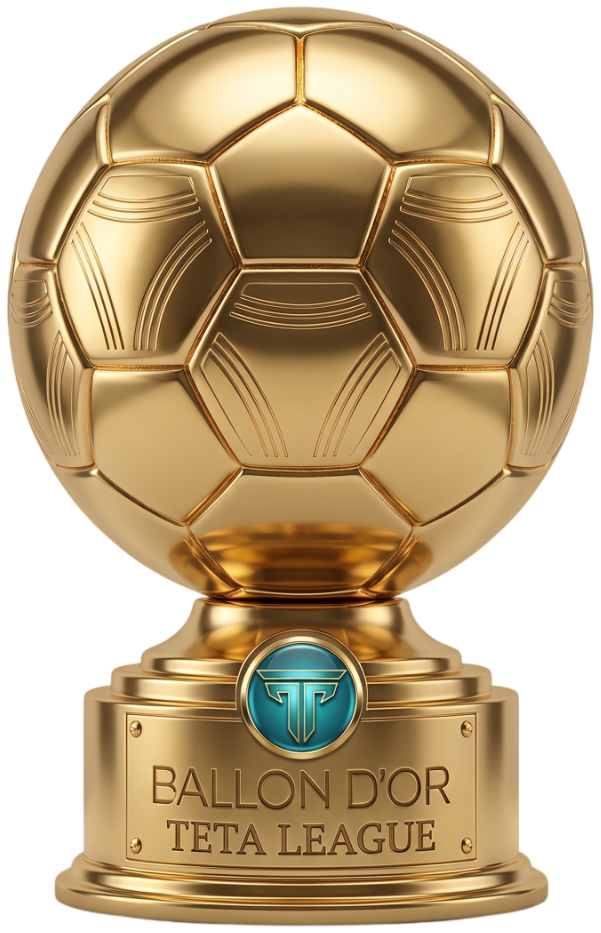
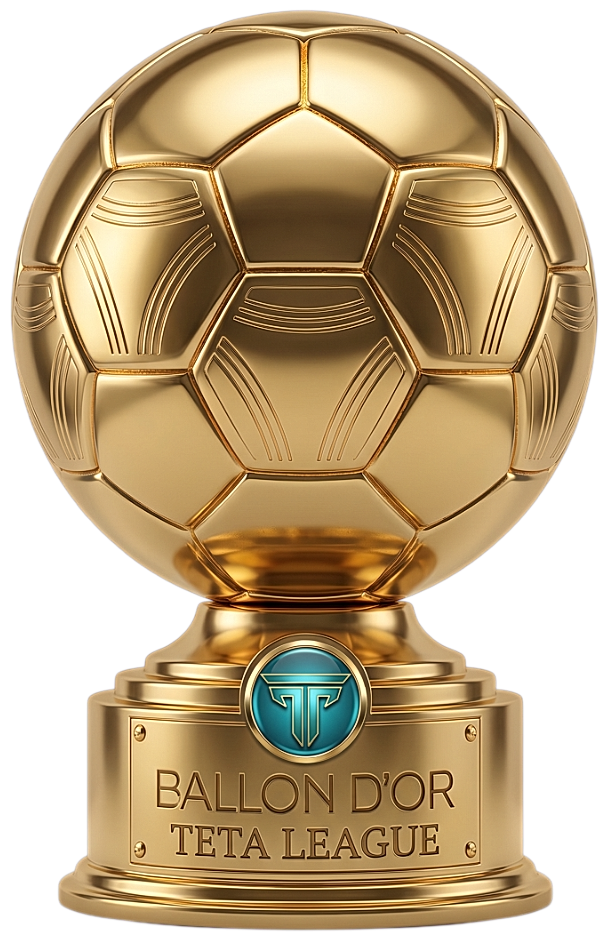
feat: refine player profile trophy visuals

diff --git a/app/oyuncular/[username]/page.tsx b/app/oyuncular/[username]/page.tsx
@@ -556,12 +556,12 @@ export default async function PlayerProfilePage({ params, searchParams }: { para
           {/* SOL: Oyuncu Bilgileri */}
           <div className="bg-[#03070c] border border-white/5 rounded-2xl p-6 lg:p-8 flex flex-col justify-center">
             <div className="flex gap-4 md:gap-6 items-start">
-              <div className="w-20 h-20 md:w-24 md:h-24 rounded-2xl bg-[#0a1628] border border-white/10 overflow-hidden shrink-0 shadow-lg">
+              <div className="w-24 h-24 md:w-28 md:h-28 rounded-2xl bg-[#0a1628] border border-white/10 overflow-hidden shrink-0 shadow-lg">
                 {profile.avatar_url ? (
                   <img src={profile.avatar_url} alt={profile.username} className="w-full h-full object-cover" />
                 ) : (
                   <div className="w-full h-full flex items-center justify-center bg-gradient-to-br from-[#00e5ff]/10 to-transparent">
-                    <span className="text-3xl font-[900] text-[#00e5ff]/40">{profile.username.charAt(0).toUpperCase()}</span>
+                    <span className="text-3xl md:text-4xl font-[900] text-[#00e5ff]/40">{profile.username.charAt(0).toUpperCase()}</span>
                   </div>
                 )}
               </div>
@@ -604,7 +604,7 @@ export default async function PlayerProfilePage({ params, searchParams }: { para
                       <div
                         key={tr.id}
                         title={`${tr.count}x ${tr.label}`}
-                        className={`inline-flex items-center gap-1.5 px-2.5 py-1 rounded-lg border text-xs font-black transition-all cursor-default select-none ${
+                        className={`inline-flex items-center gap-2 px-2.5 py-1 rounded-lg border text-xs font-black transition-all cursor-default select-none ${
                           tr.highlight === 'gold'
                             ? 'bg-gradient-to-r from-amber-500/20 via-yellow-500/15 to-amber-500/10 border-amber-400/40 text-amber-300 shadow-[0_0_12px_rgba(245,158,11,0.25)]'
                             : tr.highlight === 'emerald'
@@ -618,7 +618,7 @@ export default async function PlayerProfilePage({ params, searchParams }: { para
                           <img
                             src={tr.imageUrl}
                             alt={tr.label}
-                            className="h-5 w-auto object-contain drop-shadow-[0_0_6px_rgba(245,158,11,0.5)]"
+                            className="h-7 w-auto object-contain shrink-0"
                           />
                         ) : (
                           <span className="text-base leading-none drop-shadow-sm">{tr.icon}</span>
@@ -1078,22 +1078,8 @@ export default async function PlayerProfilePage({ params, searchParams }: { para
                         : 'bg-white/[0.02] border-white/5 opacity-60'
                     }`}
                   >
-                    {achievementCounts.BALLON_DOR > 0 ? (
-                      <div className="relative my-1 flex items-center justify-center">
-                        <div className="absolute inset-0 bg-amber-400/15 rounded-full blur-xl pointer-events-none scale-90" />
-                        <img
-                          src="/assets/achievements/ballon-dor.png"
-                          alt="Ballon d'Or TETA League"
-                          className="relative h-[75px] md:h-[95px] w-auto object-contain drop-shadow-[0_6px_12px_rgba(0,0,0,0.6)] drop-shadow-[0_0_20px_rgba(245,158,11,0.35)] transition-transform duration-300 hover:scale-105"
-                        />
-                      </div>
-                    ) : (
-                      <div className="w-14 h-14 mb-2 rounded-2xl flex items-center justify-center bg-black/40 border border-white/10 text-xl text-gray-500">
-                        🔒
-                      </div>
-                    )}
                     <div
-                      className={`text-[12px] font-[900] tracking-wider uppercase mb-1 ${
+                      className={`text-[12px] font-[900] tracking-wider uppercase mb-1.5 ${
                         achievementCounts.BALLON_DOR > 0
                           ? 'text-transparent bg-clip-text bg-gradient-to-r from-amber-200 via-yellow-300 to-amber-400'
                           : 'text-gray-500'
@@ -1101,9 +1087,24 @@ export default async function PlayerProfilePage({ params, searchParams }: { para
                     >
                       BALLON D'OR
                     </div>
+
                     {achievementCounts.BALLON_DOR > 0 ? (
-                      <>
-                        <div className="flex flex-wrap items-center justify-center gap-1 my-1.5 min-h-[22px]">
+                      <div className="my-1.5 flex items-center justify-center">
+                        <img
+                          src="/assets/achievements/ballon-dor.png"
+                          alt="Ballon d'Or TETA League"
+                          className="h-[88px] md:h-[112px] w-auto object-contain transition-transform duration-300 hover:scale-105 select-none"
+                        />
+                      </div>
+                    ) : (
+                      <div className="w-14 h-14 my-3 rounded-2xl flex items-center justify-center bg-black/40 border border-white/10 text-xl text-gray-500">
+                        🔒
+                      </div>
+                    )}
+
+                    {achievementCounts.BALLON_DOR > 0 ? (
+                      <div className="flex flex-col items-center">
+                        <div className="flex flex-wrap items-center justify-center gap-1 my-1 min-h-[22px]">
                           {ballonDorWins.map((w: any, idx: number) => (
                             <span
                               key={idx}
@@ -1116,7 +1117,7 @@ export default async function PlayerProfilePage({ params, searchParams }: { para
                         <div className="text-[14px] font-black text-amber-400 font-mono tracking-tight mt-1">
                           {ballonDorWins.length} ÖDÜL
                         </div>
-                      </>
+                      </div>
                     ) : (
                       <div className="text-[14px] font-black text-gray-700 tracking-wider mt-2">
                         KİLİTLİ
